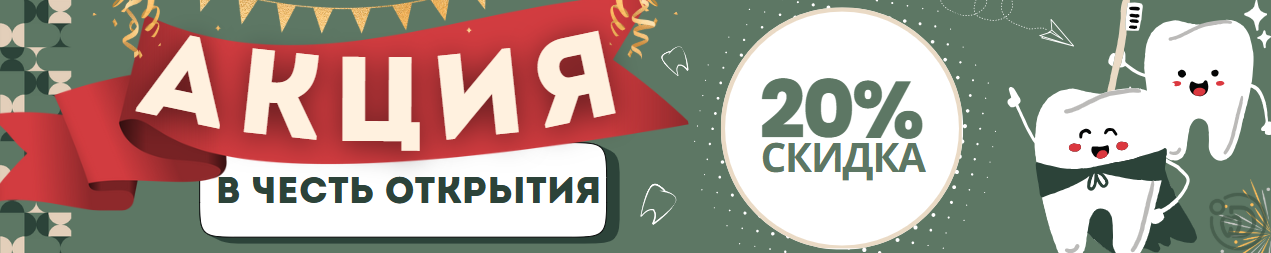
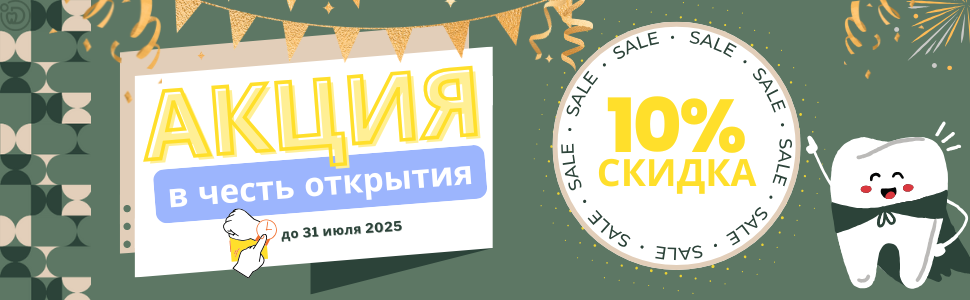
sale pic

diff --git a/index.html b/index.html
@@ -58,7 +58,7 @@
     <section class="about_us" id="about_us">
       <div class="about_us_content">
       <h1>Dental Craft - мастерство здоровой улыбки</h1>
-      <p>Наши принципы</p>
+      <p>Наши принципы:</p>
       <ul class="properties">
         <li class="properties_item"><img src='src/assets/icons/case_icon.svg'>безболезненное лечение</li>
         <li class="properties_item"><img src='src/assets/icons/hand_icon.svg'>честный подход</li>
@@ -72,8 +72,6 @@
     </section>
     <div class="discount">
       <img src="./src/assets/images/sale.png" alt="sale">
-      <!-- <h2>Акция</h2>
-      <p>В честь открытия - 20% скидка (не распространяется на акул и крокодилов)</p> -->
     </div>
     <section class="road" id="road">
       <h2>Как к нам добраться</h2>

diff --git a/src/assets/styles/main.css b/src/assets/styles/main.css
@@ -478,6 +478,13 @@ table tr:last-child td {
 
 /*MEDIA*/
 @media (min-width: 540px) {
+  .discount {
+    display: flex;
+    justify-content: center;
+  }
+  .discount img {
+    width: 80%;
+  }
   .footer .footer_inner {
     justify-content: space-between;
   }
@@ -671,6 +678,13 @@ table tr:last-child td {
     display: flex;
     flex-direction: column;
   }
+  .discount {
+    margin-left: 200px;
+    margin-right: 200px;
+  }
+  .discount img {
+    width: 100%;
+  }
   .price h2 {
     margin-bottom: 30px;
   }
@@ -721,7 +735,7 @@ table tr:last-child td {
   .about_us .about_us_content .properties .properties_item img {
     display: block;
     justify-self: center;
-    margin-bottom: 5px;
+    margin: 0 auto 5px;
   }
   .about_us .about_us_content .price_btn {
     margin-bottom: 55px;

diff --git a/src/assets/styles/main.scss b/src/assets/styles/main.scss
@@ -552,6 +552,16 @@ a{
 /*MEDIA*/
 
 @media(min-width:540px){
+.discount{
+  display: flex;
+  justify-content: center;
+  
+  img{
+    width: 80%;
+  
+  }
+}
+
 .footer{
   
 .footer_inner{
@@ -824,6 +834,15 @@ a{
 }
 } 
 
+.discount{
+  margin-left: 200px;
+  margin-right: 200px;
+
+  img{
+    width: 100%;
+  }
+}
+
 
 .price{
 h2{
@@ -893,7 +912,7 @@ p{
 img{
   display: block;
   justify-self: center;
-  margin-bottom: 5px;
+  margin: 0 auto 5px;
 }
 }
 }
